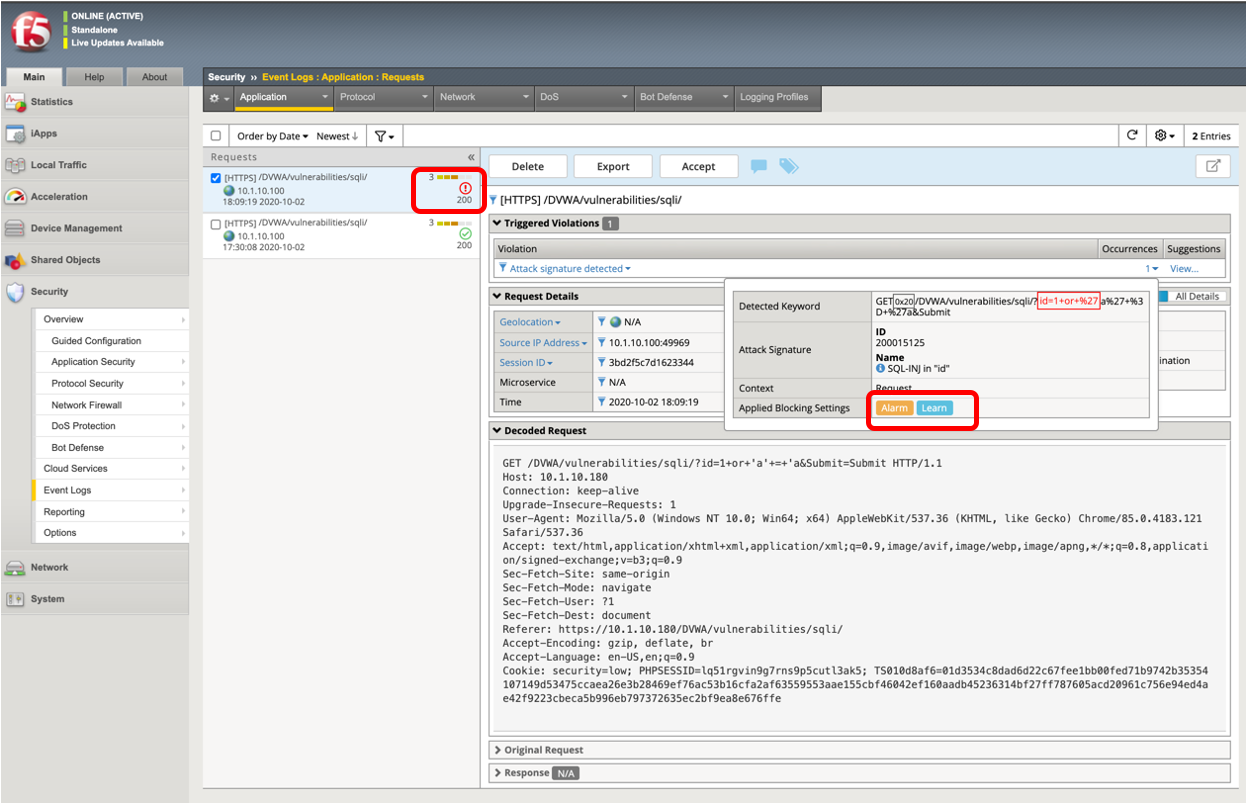
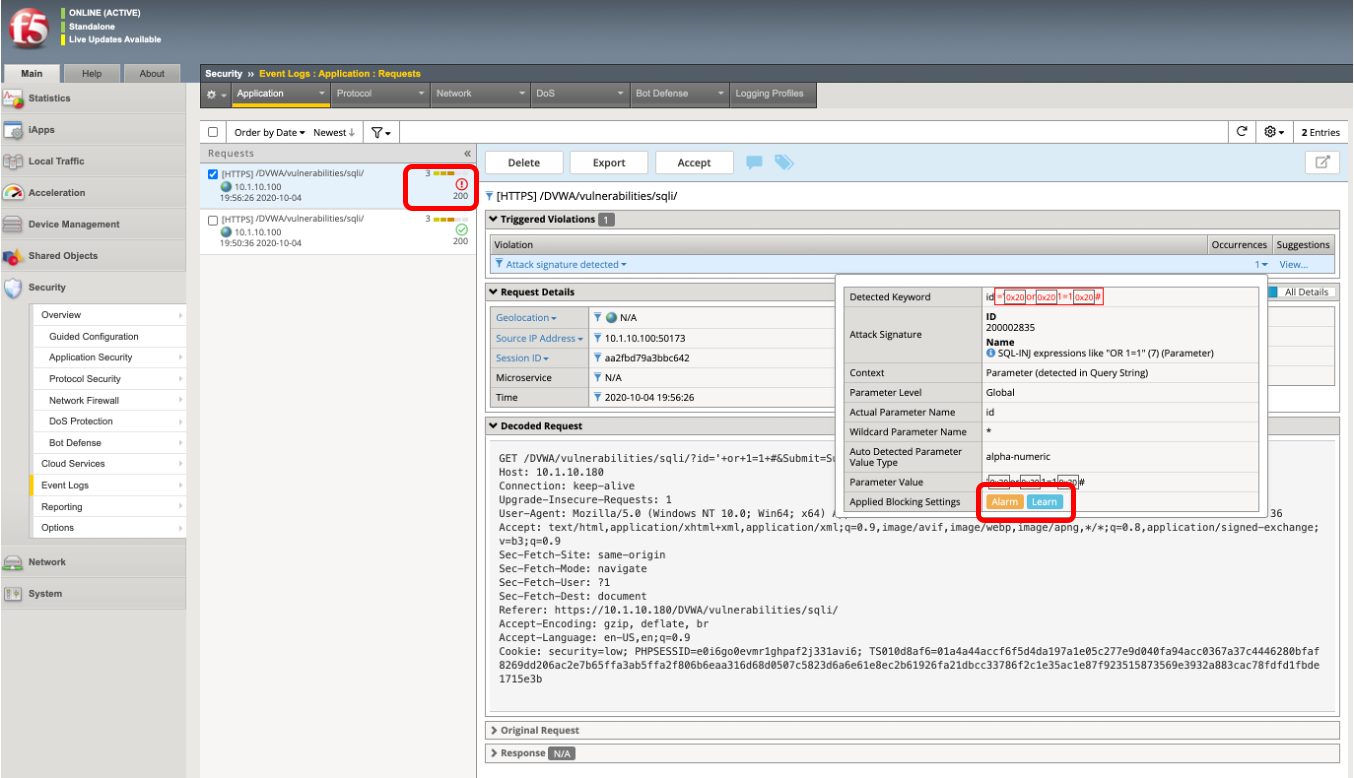
no message

Changed region(s): [[0.0, 0.0, 1.0, 1.0], [0.9759, 0.0925, 1.0, 0.1234], [0.9759, 0.0, 1.0, 0.0308]]

diff --git a/docs/content1/module05/module05.rst b/docs/content1/module05/module05.rst
@@ -1,7 +1,7 @@
 Guided configurationによるWAFポリシーの作成
 =========================================================
 
-#. **Security >> Guided Configuration** を開きます。Guided Configurationのバージョンを確認します。
+#. **Security >> Guided Configuration** を開きます。Guided Configurationのバージョンを確認します。（Guided Configurationの起動には少し時間がかかります。）
 
    .. image:: images/mod5-1.png
    |  
@@ -33,11 +33,11 @@ Guided configurationによるWAFポリシーの作成
 
    .. image:: images/mod5-8.png
    |  
-#. **Security Policy Name** に任意の名前を設定し、**Enforcement Mode** にて **Transparent** を選択し、**type of policy to protect application** にて、**Generic** を選択し、**Server Technologies** にて利用しているミドルウェアや言語を選択します。F5ハンズオン環境では、**Apache**, **MySQL**, **PHP** を選択し、:guilabel:`Next` ボタンを押します。
+#. 右上の**Show Advanced Setting** をクリックし、**Security Policy Name** に任意の名前を設定し、**Enforcement Mode** にて **Transparent** を選択し、**type of policy to protect application** にて、**Generic** を選択し、**Server Technologies** にて利用しているミドルウェアや言語を選択します。F5ハンズオン環境では、**Apache**, **MySQL**, **PHP** を選択し、:guilabel:`Next` ボタンを押します。
 
    .. image:: images/mod5-9.png
    |  
-#. 既にVirtual Serverは作成済みなので、ここでは、**Assign Policy to Virtual Server(s)** にチェックを入れ、**Use Existing** を選択し、作成済みのVirtul Serverを右に移動させ、:guilabel:`Next＆Next` ボタンを押します。
+#. 既にVirtual Serverは作成済みなので、ここでは、**Assign Policy to Virtual Server(s)** にチェックを入れ、**Use Existing** を選択し、作成済みのVirtul Serverを右に移動させ、:guilabel:`Save＆Next` ボタンを押します。
 
    .. image:: images/mod5-10.png
    | 
@@ -45,7 +45,7 @@ Guided configurationによるWAFポリシーの作成
 
    .. image:: images/mod5-11.png
    |  
-#. 作成したWAFのポリシーにLogging Profileをアタッチします。**Security >> Overview:Summary** にて、**Attach** の **Logging Profile** を選択します。
+#. 作成したWAFのポリシーにLogging Profileをアタッチします。**Security >> Overview:Summary** にて、作成済みのVirtual Serverを選択し、**Attach** の **Logging Profile** を選択します。
 
    .. image:: images/mod5-12.png
    |  
@@ -53,11 +53,11 @@ Guided configurationによるWAFポリシーの作成
 
    .. image:: images/mod5-13.png
    |  
-#. **Local Traffic >> Virtual Servers:Virtual Server List** にて作成済みのVirtul Serverを選択し、**Security** タブを選択します。**Application Security Policy** と　**Log Profile** がそれぞれ設定されていることを確認します。
+#. **Local Traffic >> Virtual Servers:Virtual Server List** にて作成済みのVirtul Serverを選択し、**Security** タブの **Policies** を選択します。**Application Security Policy** と　**Log Profile** がそれぞれ設定されていることを確認します。
 
    .. image:: images/mod5-14.png
    |  
-#. ご検知対策、負荷防止対策を設定します。（必須ではありません。） **Security >> Application Security : Policy Building : Learning and Blocking Settings** を開きます。日本語サイトの誤検知の防止策として、**Failed to convert character** をOFFにします。また、**Data Guard:Information Leakage Detected** もパフォーマンス面を考慮してOFFにし、:guilabel:`Save` ボタンを押します。
+#. 次にご検知対策、負荷防止対策を設定します。（必須ではありません。） **Security >> Application Security : Policy Building : Learning and Blocking Settings** を開きます。日本語サイトの誤検知の防止策として、**Failed to convert character** をOFFにします。また、**Data Guard:Information Leakage Detected** もパフォーマンス面を考慮してOFFにし、:guilabel:`Save` ボタンを押します。
 
    .. image:: images/mod5-15.png
    |  

diff --git a/docs/content1/module13/module13.rst b/docs/content1/module13/module13.rst
@@ -1,5 +1,61 @@
 シグネチャ、TCシグネチャのアップデート
 ======================================
 
-Comming Soon
+#. シグネチャが更新された場合に、ステージングモードで運用するか、即座に Learn/Alarm/Block の設定が適用され るかの指定が可能です。また、既存シグネチャの更新後の振る舞いについての指定も可能です。**Security >> Application Security : Policy Building : Learning and Blocking Settings** の **Attack Signatures** にて表示された画面で、必要に応じて希望する動作への設定変更を実施します。（変更する場合、Save, ApplyPolicyで反映させます。）
+    .. note::
+        Enforce updated rule immediately for non-staged signatures:
+         Enforcement 状態(Non-Staging)の既存シグネチャがアップデート された場合、更新されたシグネチャも Non-Staging とします。
+        Retain previous rule enforcement and place updated rule in staging:
+         Enforcement 状態(Non-Staging)の既存シグネチャがアップデート された場合、更新前のシグネチャは Non-Staging のままとし、更新 されたシグネチャを Staging とします。更新されたシグネチャの Staging 期間が終了した際に、更新前の シグネチャが削除され、更新されたシグネチャが Non-Staging とな ります。
+
+   .. image:: images/mod13-1.png
+   | 
+#. **System >> Software Management : Live Update** で表示された画面で、**Check for Updates** をクリックして、シグネチャ更新の有無を確認します。
+
+   .. image:: images/mod13-2.png
+   | 
+#. チェック中のイメージです。(チェックには数分かかります。)
+
+   .. image:: images/mod13-3.png
+   | 
+#. 更新可能なシグネチャがある場合、以下のように表示されます。☓を推し、画面を閉じます。
+
+   .. image:: images/mod13-4.png
+   | 
+#. 全てをインスールしたい場合は、InstallAllUpdatesをクリックします。
+
+   .. image:: images/mod13-5.png
+   | 
+#. シグネチャ更新中は、以下のように表示されます。(更新には数分かかります。)
+
+   .. image:: images/mod13-6.png
+   | 
+#. Install が完了すると以下のようになります。☓を推し、画面を閉じます。
+
+   .. image:: images/mod13-7.png
+   | 
+#. 以下が更新後のイメージとなります。CurrentlyInstaslledステータスのシグネチャをクリックします。
+
+   .. image:: images/mod13-8.png
+   | 
+#. UpdateされたSignatureの情報が表示されます。各Entityをクリックすると、該当するシグネチャ一覧が確認できます。
+
+   .. image:: images/mod13-9.png
+   | 
+#. Update がない場合は Install Updates をクリックしても以下のように表示されます。
+
+   .. image:: images/mod13-10.png
+   | 
+#. 追加されたシグネチャがステージングになっているかどうかの確認方法を示します。**Security >> Application Security : Security Policies : Policies List >> DVWA_policy** で表示された画面で、**Status** を **Staging** でフィルタリングします。
+
+   .. image:: images/mod13-11.png
+   | 
+#. 追加されたシグネチャがステージングとなっていることが分かります。
+
+   .. image:: images/mod13-12.png
+   | 
+   
+.. note::
+    新しいSignatureをUpdateすることで新たな攻撃に対応することができます。Signatureの更新についての詳細は、以下の記事を参考にして下さい。
+    https://support.f5.com/csp/article/K82512024
 

diff --git a/docs/content1/module12/module12.rst b/docs/content1/module12/module12.rst
@@ -1,4 +1,19 @@
 Threat campaignsシグネチャの設定
 ======================================
 
-Comming Soon
+　Webアプリケーションの脅威対策を行う上で、実際の攻撃とフォールスポジティブを見極めることに直面することがあります。シグネチャやWAFの様々な機能によって、既知の脆弱性に対する攻撃リクエストを評価すると同時に、悪意のないリクエストも評価されるため、管理者はWAFで検知されたアラートに対し、正常なリクエストか悪意のあるリクエストか判断を迫られることがあります。
+　この問題は、検査するデータがシングルポイントであることにあります。もっと多くの条件を元にリクエストを検査することによって、この問題を解決することができることがあります。F5はこの問題を解決する手法として、**Threat Campaignsシグネチャ** という独自のシグネチャを提供しています。**Threat Campaignsシグネチャ** は、実際の攻撃キ ャンペーンを元に複数の条件をマッピングされたものになっています。
+
+　この項では、Threat Campaignsシグネチャの設定確認と、テキスト上にて攻撃サンプルログを確認します。 
+
+#. **Security >> Application Security : Policy Building : Learning and Blocking Settings** で表示された画面にて、Threat Campaigns の **Alarm** と **Block** 有効になっていることを確認します。（Learnは存在しません。）
+
+   .. image:: images/mod12-1.png
+   |  
+#. 攻撃を受けたと仮定して、Eveng Logsでログを確認します。（F5ハンズオンでは実際に攻撃は行いません。本ガイドによる確認のみとなります。）下記は攻撃を受けたときのサンプルログとなります。こちらを見ると、Violation Rating が **5:Request is most likely a threat** となっていることが分かります。これはThreat Campaginsシグネチャが実際の攻撃を元に作成されており、ほぼフォールスポジティブではないことを表しています。
+
+   .. image:: images/mod12-2.png
+   | 
+
+.. note::
+    Threat Campaignsシグネチャを利用するのは別途サブスクリプションライセンスが必要となります。

diff --git a/docs/content1/module03/module03.rst b/docs/content1/module03/module03.rst
@@ -65,11 +65,11 @@
    
    .. image:: images/mod3-15.png
    | 
-#. Default Gatewayの設定を行います。**Network >> Routes** にて、:guilabel:`Create` ボタンを選択します。**Name** に任意の名前を設定し、**Destination** , **Netmask** に **0.0.0.0** を設定し、**Gateway Address** に **10.1.10.1** を設定し、:guilabel:`Finished` ボタンを選択します。
+#. Default Gatewayの設定を行います。**Network >> Routes** にて、:guilabel:`Add` ボタンを選択します。**Name** に任意の名前を設定し、**Destination** , **Netmask** に **0.0.0.0** を設定し、**Gateway Address** に **10.1.10.1** を設定し、:guilabel:`Finished` ボタンを選択します。
 
    .. image:: images/mod3-16.png
    |  
-#. WEBサーバへのルーティング設定を行います。（F5ハンズオントレーニングでは、SelfIPと同じセグメントなため不要です。）
+#. WEBサーバへのルーティング設定を行います。（以下は設定例となります。F5ハンズオントレーニングでは、SelfIPと同じセグメントなため不要です。）
 
    .. image:: images/mod3-17.png
    |  
@@ -77,8 +77,8 @@
    
    .. image:: images/mod3-18.png
    | 
-#. DNSの設定を行います。（F5ハンズオントレーニングでは予め設定されています。）
-   
+#. DNSの設定を行います。**System >> Configuration : Device : DNS** にて設定します。（F5ハンズオントレーニングでは予め設定されていますので、確認のみ行って下さい。）
+
    .. image:: images/mod3-19.png
    | 
 #. NTPの設定を行います。**System >> Configuration : Device : NTP** にて、NTPを設定し、:guilabel:`Update` ボタンを選択します。 F5ハンズオントレーニングではNTPを利用します。

diff --git a/docs/content1/module04/module04.rst b/docs/content1/module04/module04.rst
@@ -5,7 +5,7 @@
 
    .. image:: images/mod4-1.png
    |  
-#. **Name** に任意の名称を記述し、**Destination Address/Mask** に **10.1.10.180**、**Service Port** に **80** を設定し、**HTTP Profile (Client)** にて **HTTP** を選択、**SSL Pofile(Client)** にて **clientssl** を選択します。
+#. **Name** に任意の名称を記述し、**Destination Address/Mask** に **10.1.10.180**、**Service Port** に **443** を設定し、**HTTP Profile (Client)** にて **HTTP** を選択、**SSL Pofile(Client)** にて **clientssl** を選択します。
    
    .. image:: images/mod4-2.png
    |    
@@ -28,12 +28,14 @@
 #. Windowsクライアントを起動し、https://10.1.10.180/DVWA/login.php にアクセスします。Username: **admin**、Password: **password** でログインします。
    
    .. image:: images/mod4-7.png
+      :scale: 60%
+      :align: center
    | 
 #. **DVWA Security** にアクセスし、**Security Level** を **Low** に設定します。
    
    .. image:: images/mod4-8.png
    | 
-#. **SQL Injection** にアクセスし、**User ID** に 1' or 'a' = 'a と入力し、SQLインジェクション攻撃をします。(本ガイドからコマンドはコピーしないで下さい。シングルクォーテーションに注意してタイプして下さい。)
+#. **SQL Injection** にアクセスし、**User ID** に **' or 1=1 #** と入力し、SQLインジェクション攻撃をします。(本ガイドからコマンドはコピーしないで下さい。シングルクォーテーションに注意してタイプして下さい。)
    
    .. image:: images/mod4-9.png
    | 

diff --git a/docs/content1/module07/module07.rst b/docs/content1/module07/module07.rst
@@ -3,11 +3,11 @@
 
 ステージングのログをEvent Logs に出力するための設定を行います。（必須ではありませんが、ステージング運用される場合には便利です。）
 
-#. **Security >> Event Logs : Logging Profiles** にて、:guilabel:`Create` ボタンを押します。任意の名前を設定し、**Application Security** のところで、**Enabled** をチェックし、**Request type** にて、**Illegal requests, and requests that include staged attack signatures** を選択し、:guilabel:`Create` ボタンを押します。
+#. **Security >> Event Logs : Logging Profiles** にて、:guilabel:`Create` ボタンを押します。任意の名前を設定し、**Application Security** のところで、**Enabled** をチェックし、**Request type** にて、**Illegal requests, and requests that include staged attack signatures ...** を選択し、:guilabel:`Create` ボタンを押します。
 
    .. image:: images/mod7-1.png
    |  
-#. **Security >> Overview : Summary** にて、作成済みのVirtul Serverを選択し、一旦、アタッチした **Logging Profile(s)** をはずします。
+#. **Security >> Overview : Summary** にて、作成済みのVirtul Serverにチェックをし、一旦、アタッチした **Logging Profile(s)** をはずします。
 
    .. image:: images/mod7-2.png
    |  

diff --git a/docs/content1/module11/module11.rst b/docs/content1/module11/module11.rst
@@ -24,7 +24,7 @@
 
    .. image:: images/mod11-3.png
    |  
-#. **Occurences** をクリックし、誤検知したパラメータ名（mtxMessage）とシグネチャID（2000028335）を確認します。
+#. **Occurences** をクリックし、誤検知したパラメータ名（mtxMessage）とシグネチャID（200002835）を確認します。
 
    .. image:: images/mod11-4.png
    |  
@@ -48,7 +48,7 @@
 誤検知したパラメータで該当シグネチャを無効化
 --------------------------------------------
 
-#. 今度は先程作成したParameterの **Parameter Value Type** にて、**User-Input Value** を選択し、**Attack Sigantures** タブにて、誤検知したシグネチャID（2000028335）を左に移動し、**Disabled** にし、:guilabel:`Update` ボタンを押します。　
+#. 今度は先程作成したParameterの **Parameter Value Type** にて、**User-Input Value** を選択し、**Attack Sigantures** タブにて、誤検知したシグネチャID（200002835）を左に移動し、**Disabled** にし、:guilabel:`Update` ボタンを押します。　
 
    .. image:: images/mod11-9.png
    | 

diff --git a/docs/content1/module14/module14.rst b/docs/content1/module14/module14.rst
@@ -1,0 +1,10 @@
+CVE番号によるシグネチャの検索 
+======================================
+
+各シグネチャがどのCVEに対応しているか確認することが可能です。
+
+#. **Security >> Options : Application Security : Attack Signatures : Attack Signature List** で表示され た画面の **Show Filter Details** をクリックすると、以下のような画面が表示されます。**References** から **CVE** を選択し、CVE番号を入力して :guilabel:`Go` ボタンを押します。
+
+   .. image:: images/mod14-1.png 
+    
+    上記の CVE 番号(CVE-2017-5638)は、Apache Struts2の脆弱性に対応したシグネチャ一覧であることを表示しています。Adv.WAF では、1つのCVE番号に関連したシグネチャが複数存在していることがあります。
